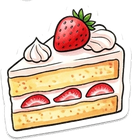
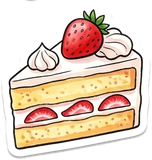
fix: render stickers with pure per-pixel alpha transparency directly on canvas without square background box

diff --git a/ToDoList.py b/ToDoList.py
@@ -2460,26 +2460,18 @@ class DailyNoteModal(ctk.CTkToplevel):
             self._sticker_popup.lift()
 
     def render_canvas_stickers(self):
-        """Serbest sürüklenebilir çıkartmaları Canvas üzerine çizer."""
-        for win_id in self._sticker_win_ids:
-            try:
-                self.canvas.delete(win_id)
-            except Exception:
-                pass
-        self._sticker_win_ids.clear()
+        """Serbest sürüklenebilir çıkartmaları Canvas üzerine doğrudan saf şeffaflıkla (alpha) çizer."""
+        self.canvas.delete("sticker_item")
+        self.canvas.delete("stk_ctrl")
         self._sticker_cache.clear()
 
         if not self.note_stickers:
             self._update_scroll_region()
             return
 
-        paper_bg = "#FAF4EB" if not self.is_dark else "#221C18"
-
         for idx, s in enumerate(self.note_stickers):
             s_file = s.get("file", "")
             fpath = os.path.join(STICKERS_DIR, s_file) if s_file else ""
-            
-            # Görsel veya Emoji render
             if fpath and os.path.exists(fpath):
                 try:
                     pil_img = Image.open(fpath).convert("RGBA")
@@ -2498,121 +2490,125 @@ class DailyNoteModal(ctk.CTkToplevel):
 
                     sw = tk_img.width()
                     sh = tk_img.height()
-
-                    s_frame = tk.Frame(self.canvas, bg=paper_bg, bd=0, highlightthickness=0)
-                    s_canvas = tk.Canvas(s_frame, width=sw, height=sh, bg=paper_bg, highlightthickness=0)
-                    s_canvas.pack()
-                    s_canvas.create_image(sw // 2, sh // 2, image=tk_img, tags="sticker")
-
-                    if self.is_today:
-                        r = 9
-                        # Sağ Üst: Sil
-                        s_canvas.create_oval(sw - 10 - r, 10 - r, sw - 10 + r, 10 + r,
-                                             fill="#EF4444", outline="#DC2626", width=1, tags=("stk_ctrl", "stk_del"))
-                        s_canvas.create_text(sw - 10, 10, text="✕", font=("Segoe UI", 7, "bold"),
-                                             fill="#FFFFFF", tags=("stk_ctrl", "stk_del"))
-
-                        # Sol Üst: Döndür
-                        s_canvas.create_oval(10 - r, 10 - r, 10 + r, 10 + r,
-                                             fill="#3B82F6", outline="#2563EB", width=1, tags=("stk_ctrl", "stk_rot"))
-                        s_canvas.create_text(10, 10, text="🔄", font=("Segoe UI", 6, "bold"),
-                                             fill="#FFFFFF", tags=("stk_ctrl", "stk_rot"))
-
-                        # Sağ Alt: Büyüt
-                        s_canvas.create_oval(sw - 10 - r, sh - 10 - r, sw - 10 + r, sh - 10 + r,
-                                             fill="#10B981", outline="#059669", width=1, tags=("stk_ctrl", "stk_plus"))
-                        s_canvas.create_text(sw - 10, sh - 10, text="➕", font=("Segoe UI", 7, "bold"),
-                                             fill="#FFFFFF", tags=("stk_ctrl", "stk_plus"))
-
-                        # Sol Alt: Küçült
-                        s_canvas.create_oval(10 - r, sh - 10 - r, 10 + r, sh - 10 + r,
-                                             fill="#6B7280", outline="#4B5563", width=1, tags=("stk_ctrl", "stk_minus"))
-                        s_canvas.create_text(10, sh - 10, text="➖", font=("Segoe UI", 7, "bold"),
-                                             fill="#FFFFFF", tags=("stk_ctrl", "stk_minus"))
-
-                        s_canvas.itemconfigure("stk_ctrl", state="hidden")
-
-                        def _del_stk(cur_s=s):
-                            play_button_sound()
-                            if cur_s in self.note_stickers:
-                                self.note_stickers.remove(cur_s)
-                            self._save_state_quietly()
-                            self.render_canvas_stickers()
-
-                        def _res_stk(delta, cur_s=s):
-                            play_button_sound()
-                            cur_s["size"] = max(30, min(140, cur_s.get("size", 65) + delta))
-                            self._save_state_quietly()
-                            self.render_canvas_stickers()
-
-                        def _rot_stk(cur_s=s):
-                            play_button_sound()
-                            cur_ang = cur_s.get("angle", 0) + 8
-                            if cur_ang > 36:
-                                cur_ang = -36
-                            cur_s["angle"] = cur_ang
-                            self._save_state_quietly()
-                            self.render_canvas_stickers()
-
-                        s_canvas.tag_bind("stk_del", "<Button-1>", lambda e, cur=s: _del_stk(cur))
-                        s_canvas.tag_bind("stk_plus", "<Button-1>", lambda e, cur=s: _res_stk(12, cur))
-                        s_canvas.tag_bind("stk_minus", "<Button-1>", lambda e, cur=s: _res_stk(-12, cur))
-                        s_canvas.tag_bind("stk_rot", "<Button-1>", lambda e, cur=s: _rot_stk(cur))
-
-                        def _enter_stk(e, can=s_canvas):
-                            can.itemconfigure("stk_ctrl", state="normal")
-                            can.config(cursor="hand2")
-
-                        def _leave_stk(e, can=s_canvas):
-                            try:
-                                if e.x < 0 or e.x >= can.winfo_width() or e.y < 0 or e.y >= can.winfo_height():
-                                    can.itemconfigure("stk_ctrl", state="hidden")
-                                    can.config(cursor="")
-                            except Exception:
-                                pass
-
-                        s_canvas.bind("<Enter>", _enter_stk)
-                        s_canvas.bind("<Leave>", _leave_stk)
-
                     cur_x = s.get("x", 200)
                     cur_y = s.get("y", 200)
-                    win_id = self.canvas.create_window(cur_x, cur_y, anchor="center", window=s_frame)
-                    self._sticker_win_ids.append(win_id)
+
+                    tag_name = f"stk_{idx}"
+                    self.canvas.create_image(
+                        cur_x, cur_y, image=tk_img,
+                        tags=(tag_name, "sticker_item"),
+                        anchor="center"
+                    )
 
                     if self.is_today:
-                        def _make_stk_drag(w_id, can, target_s):
-                            def _start(e):
-                                can._drag_start_x = e.x
-                                can._drag_start_y = e.y
-                                self.canvas.tag_raise(w_id)
-                                can.config(cursor="fleur")
+                        def _make_stk_drag_handlers(t_name, cur_s, width_s, height_s):
+                            def _start(event):
+                                self._stk_drag_start_x = event.x
+                                self._stk_drag_start_y = event.y
+                                self._stk_has_moved = False
+                                self.canvas.tag_raise(t_name)
+                                self.canvas.tag_raise("stk_ctrl")
+                                self.canvas.config(cursor="fleur")
 
-                            def _drag(e):
-                                dx = e.x - getattr(can, "_drag_start_x", 0)
-                                dy = e.y - getattr(can, "_drag_start_y", 0)
-                                coords = self.canvas.coords(w_id)
-                                nx = max(10, min(560, coords[0] + dx))
-                                ny = max(10, coords[1] + dy)
-                                self.canvas.coords(w_id, nx, ny)
-                                target_s["x"] = nx
-                                target_s["y"] = ny
+                            def _drag(event):
+                                dx = event.x - getattr(self, "_stk_drag_start_x", event.x)
+                                dy = event.y - getattr(self, "_stk_drag_start_y", event.y)
+                                if abs(dx) > 2 or abs(dy) > 2:
+                                    self._stk_has_moved = True
+                                self.canvas.move(t_name, dx, dy)
+                                self.canvas.move("stk_ctrl", dx, dy)
+                                cur_s["x"] += dx
+                                cur_s["y"] += dy
+                                self._stk_drag_start_x = event.x
+                                self._stk_drag_start_y = event.y
                                 self._update_scroll_region()
 
-                            def _end(e):
-                                can.config(cursor="hand2")
+                            def _end(event):
+                                self.canvas.config(cursor="hand2")
                                 self._save_state_quietly()
 
-                            return _start, _drag, _end
+                            def _enter(event):
+                                self.canvas.config(cursor="hand2")
+                                self._show_sticker_controls(cur_s, width_s, height_s)
 
-                        st_cb, dr_cb, end_cb = _make_stk_drag(win_id, s_canvas, s)
-                        s_canvas.tag_bind("sticker", "<Button-1>", st_cb)
-                        s_canvas.tag_bind("sticker", "<B1-Motion>", dr_cb)
-                        s_canvas.tag_bind("sticker", "<ButtonRelease-1>", end_cb)
+                            return _start, _drag, _end, _enter
+
+                        start_cb, drag_cb, end_cb, enter_cb = _make_stk_drag_handlers(tag_name, s, sw, sh)
+                        self.canvas.tag_bind(tag_name, "<Button-1>", start_cb)
+                        self.canvas.tag_bind(tag_name, "<B1-Motion>", drag_cb)
+                        self.canvas.tag_bind(tag_name, "<ButtonRelease-1>", end_cb)
+                        self.canvas.tag_bind(tag_name, "<Enter>", enter_cb)
 
                 except Exception as e:
                     print(f"Sticker çizim hatası: {e}")
 
+        # Çıkartmaları her zaman polaroidlerin ve çizgilerin en üstüne yükselt
+        self.canvas.tag_raise("sticker_item")
+        self.canvas.tag_raise("stk_ctrl")
         self._update_scroll_region()
+
+    def _show_sticker_controls(self, s, sw, sh):
+        """Çıkartma üzerine gelindiğinde mini silme/döndürme/boyut butonlarını Canvas üzerine çizer."""
+        self.canvas.delete("stk_ctrl")
+        cx = s.get("x", 200)
+        cy = s.get("y", 200)
+        hw = sw // 2 + 4
+        hh = sh // 2 + 4
+        r = 9
+
+        # 1. Sağ Üst: Kırmızı Sil (✕)
+        self.canvas.create_oval(cx + hw - r, cy - hh - r, cx + hw + r, cy - hh + r,
+                                fill="#EF4444", outline="#DC2626", width=1, tags=("stk_ctrl", "stk_del"))
+        self.canvas.create_text(cx + hw, cy - hh, text="✕", font=("Segoe UI", 7, "bold"),
+                                fill="#FFFFFF", tags=("stk_ctrl", "stk_del"))
+
+        # 2. Sol Üst: Mavi Döndür (🔄)
+        self.canvas.create_oval(cx - hw - r, cy - hh - r, cx - hw + r, cy - hh + r,
+                                fill="#3B82F6", outline="#2563EB", width=1, tags=("stk_ctrl", "stk_rot"))
+        self.canvas.create_text(cx - hw, cy - hh, text="🔄", font=("Segoe UI", 6, "bold"),
+                                fill="#FFFFFF", tags=("stk_ctrl", "stk_rot"))
+
+        # 3. Sağ Alt: Yeşil Büyüt (➕)
+        self.canvas.create_oval(cx + hw - r, cy + hh - r, cx + hw + r, cy + hh + r,
+                                fill="#10B981", outline="#059669", width=1, tags=("stk_ctrl", "stk_plus"))
+        self.canvas.create_text(cx + hw, cy + hh, text="➕", font=("Segoe UI", 7, "bold"),
+                                fill="#FFFFFF", tags=("stk_ctrl", "stk_plus"))
+
+        # 4. Sol Alt: Gri Küçült (➖)
+        self.canvas.create_oval(cx - hw - r, cy + hh - r, cx - hw + r, cy + hh + r,
+                                fill="#6B7280", outline="#4B5563", width=1, tags=("stk_ctrl", "stk_minus"))
+        self.canvas.create_text(cx - hw, cy + hh, text="➖", font=("Segoe UI", 7, "bold"),
+                                fill="#FFFFFF", tags=("stk_ctrl", "stk_minus"))
+
+        def _del_stk(cur_s=s):
+            play_button_sound()
+            if cur_s in self.note_stickers:
+                self.note_stickers.remove(cur_s)
+            self._save_state_quietly()
+            self.render_canvas_stickers()
+
+        def _res_stk(delta, cur_s=s):
+            play_button_sound()
+            cur_s["size"] = max(30, min(160, cur_s.get("size", 65) + delta))
+            self._save_state_quietly()
+            self.render_canvas_stickers()
+
+        def _rot_stk(cur_s=s):
+            play_button_sound()
+            cur_ang = cur_s.get("angle", 0) + 8
+            if cur_ang > 36:
+                cur_ang = -36
+            cur_s["angle"] = cur_ang
+            self._save_state_quietly()
+            self.render_canvas_stickers()
+
+        self.canvas.tag_bind("stk_del", "<Button-1>", lambda e: _del_stk())
+        self.canvas.tag_bind("stk_plus", "<Button-1>", lambda e: _res_stk(14))
+        self.canvas.tag_bind("stk_minus", "<Button-1>", lambda e: _res_stk(-14))
+        self.canvas.tag_bind("stk_rot", "<Button-1>", lambda e: _rot_stk())
+
+        for tag in ("stk_del", "stk_rot", "stk_plus", "stk_minus"):
+            self.canvas.tag_bind(tag, "<Enter>", lambda e: self.canvas.config(cursor="hand2"))
 
     def _update_scroll_region(self):
         """Metin, fotoğraflar ve çıkartmaların konumuna göre sayfa kaydırma sınırını dinamik ayarlar."""
@@ -2637,17 +2633,6 @@ class DailyNoteModal(ctk.CTkToplevel):
             self.canvas.config(scrollregion=(0, 0, 580, max_y))
         except Exception:
             pass
-
-    def _update_scroll_region(self):
-        """Metin, fotoğraflar ve çıkartmaların konumuna göre sayfa kaydırma sınırını dinamik ayarlar."""
-        try:
-            txt = self.textbox.get("1.0", "end-1c")
-            num_lines = max(18, len(txt.split("\n")))
-            txt_h = max(520, num_lines * 28 + 40)
-            self.textbox.configure(height=txt_h)
-            self.canvas.itemconfigure(self.txt_win_id, height=txt_h)
-
-            max_y = txt_h + 80
             for item in self.note_images:
                 y = item.get("y", 0)
                 if y:
